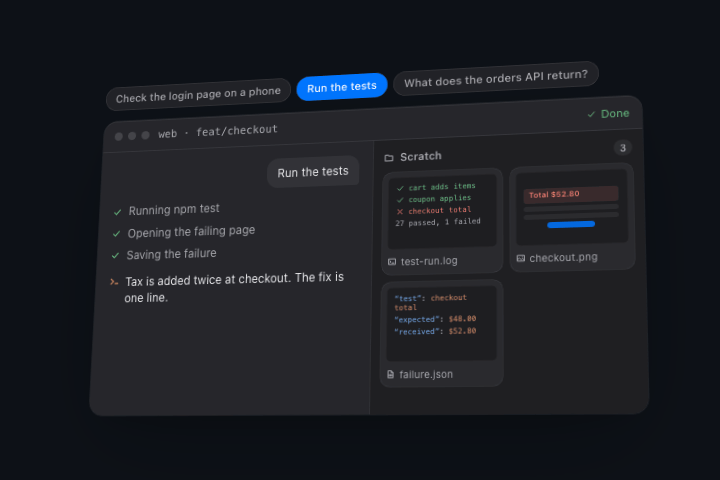
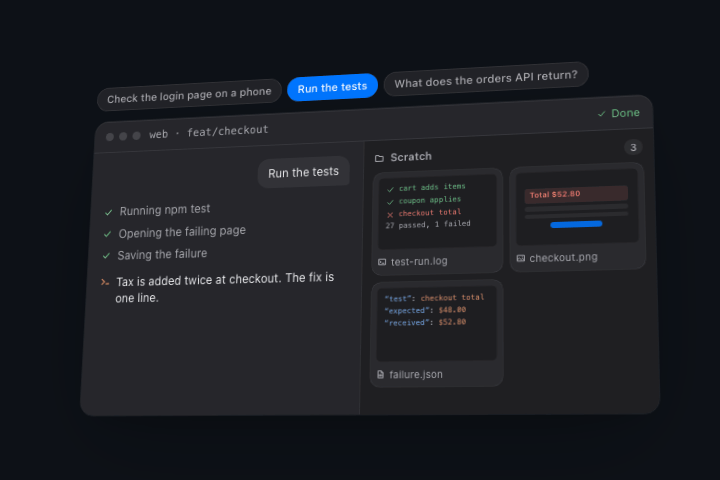
fix(onboarding): the welcome covers the window from its first frame, and Scratch's files stay in their tiles (BLG-989)
At launch the welcome no longer fades in over an app that has already drawn
(the app showed through for a moment); a replay from the menu still fades in.
Scratch is a little wider and its log lines wrap inside their tiles.

diff --git a/packages/mac/src/onboarding/Onboarding.tsx b/packages/mac/src/onboarding/Onboarding.tsx
@@ -42,12 +42,15 @@ function arrive(): void {
   setTimeout(() => delete app.dataset.arriving, 2000);
 }
 
-export function useOnboarding(): { open: boolean; start: Step; close: (how: 'finished' | 'skipped') => void; arrive: () => void } {
+export function useOnboarding(): { open: boolean; start: Step; fade: boolean; close: (how: 'finished' | 'skipped') => void; arrive: () => void } {
   const api = useApi();
   const telemetry = useApp((st) => st.telemetry);
   const [open, setOpen] = useState(() => shouldShow(localStorage, window.location.search));
   // Where it opens: the step it was left on (macOS's "Quit & Reopen" after a permission), or the welcome.
   const [start, setStart] = useState<Step>(() => resumeAt(localStorage) ?? 'hello');
+  // Shown at launch it covers the window from its first frame (fading in, the app showed through
+  // for a moment); asked for again from the menu, it fades in over the app.
+  const [fade, setFade] = useState(false);
   useEffect(() => {
     // The first time only: quit halfway and it's back next launch. Seeing it again from Help
     // leaves the mark as it was, so a replay you leave never brings it back on its own (only a
@@ -57,6 +60,7 @@ export function useOnboarding(): { open: boolean; start: Step; close: (how: 'fin
   useEffect(() => {
     const show = (): void => {
       setStart('hello');
+      setFade(true);
       setOpen(true);
     };
     document.addEventListener(SHOW_WELCOME, show);
@@ -65,6 +69,7 @@ export function useOnboarding(): { open: boolean; start: Step; close: (how: 'fin
   return {
     open,
     start,
+    fade,
     arrive,
     close: (how) => {
       saveMark(localStorage, APP_VERSION, how);
@@ -108,7 +113,7 @@ function Progress({ step, steps, go }: { readonly step: Step; readonly steps: re
  * then the app. A full window of its own over the app (which is already there
  * underneath, so finishing simply lifts this away).
  */
-export function Onboarding({ start = 'hello', onClose, onArrive }: { readonly start?: Step; readonly onClose: (how: 'finished' | 'skipped') => void; readonly onArrive?: () => void }) {
+export function Onboarding({ start = 'hello', fade = false, onClose, onArrive }: { readonly start?: Step; readonly fade?: boolean; readonly onClose: (how: 'finished' | 'skipped') => void; readonly onArrive?: () => void }) {
   const { ui } = useBeluga();
   const api = useApi();
   const prefs = usePrefs();
@@ -226,7 +231,7 @@ export function Onboarding({ start = 'hello', onClose, onArrive }: { readonly st
         aria-modal="true"
         aria-label="Welcome to Beluga"
         data-welcome=""
-        initial={{ opacity: 0 }}
+        initial={fade && !still ? { opacity: 0 } : false}
         animate={finale ? { opacity: inside ? 0 : 1 } : leaving ? { opacity: 0, scale: 1.04, filter: 'blur(14px)' } : { opacity: 1, scale: 1, filter: 'blur(0px)' }}
         transition={finale ? { duration: 0.12 } : { duration: leaving ? 0.6 : 0.8, ease: EASE_OUT }}
       >

diff --git a/packages/mac/src/onboarding/scenes/Scratch.tsx b/packages/mac/src/onboarding/scenes/Scratch.tsx
@@ -36,7 +36,7 @@ export const SCRATCH_RUNS: readonly Run[] = [
     doing: ['Opening the login page at 375 px', 'Reading the console', 'Measuring the layout'],
     files: [
       { name: 'login-375px.png', kind: 'shot', page: 'phone' },
-      { name: 'console.log', kind: 'log', lines: [{ text: 'GET /login 200' }, { text: 'Sign In is below the screen', tone: 'warn' }, { text: 'GET /api/session 401' }] },
+      { name: 'console.log', kind: 'log', lines: [{ text: 'GET /login 200' }, { text: 'Sign In off screen', tone: 'warn' }, { text: 'GET /api/session 401' }] },
       { name: 'layout.json', kind: 'json', rows: [['viewport', '375 × 812'], ['button.top', '860'], ['visible', 'false']] },
     ],
     answer: 'At 375 px the Sign In button is below the screen. Fixing it now.',

diff --git a/packages/mac/src/onboarding/scenes/tour-scenes.module.css b/packages/mac/src/onboarding/scenes/tour-scenes.module.css
@@ -157,14 +157,14 @@
 /* ── Scratch ──────────────────────────────────────────────── */
 
 .scratch {
-  width: 560px;
+  width: 580px;
   display: flex;
   flex-direction: column;
   gap: 12px;
 }
 .split {
   display: grid;
-  grid-template-columns: minmax(0, 1fr) 268px;
+  grid-template-columns: minmax(0, 1fr) 288px;
   min-height: 276px;
 }
 .talk {
@@ -367,9 +367,14 @@
 }
 .log span {
   display: flex;
-  align-items: center;
+  align-items: flex-start;
   gap: 4px;
-  white-space: nowrap;
+  /* Wraps rather than running out of its tile. */
+  overflow-wrap: anywhere;
+}
+.log span svg {
+  flex: none;
+  margin-top: 0.15em;
 }
 .log [data-tone='ok'] {
   color: var(--ok);

diff --git a/packages/mac/e2e/onboarding.spec.ts b/packages/mac/e2e/onboarding.spec.ts
@@ -8,6 +8,8 @@ test('a fresh install walks through the welcome, picks a look, and never sees it
   await page.goto('/');
   const welcome = page.getByRole('dialog', { name: 'Welcome to Beluga' });
   await expect(welcome).toBeVisible();
+  // At launch it covers the window from its first frame: no fade-in for the app to show through.
+  expect(await welcome.evaluate((el) => getComputedStyle(el).opacity)).toBe('1');
   // The beluga opens the welcome, and comes back on the last step.
   await expect(welcome.getByRole('img', { name: 'Beluga' })).toBeVisible();
   await welcome.getByRole('button', { name: /Set Up Beluga/ }).click();

diff --git a/packages/mac/src/App.tsx b/packages/mac/src/App.tsx
@@ -265,7 +265,7 @@ export function App() {
       <CallLayer />
       <MessageBanner />
       <UndoToast />
-      {welcome.open ? <Onboarding start={welcome.start} onClose={welcome.close} onArrive={welcome.arrive} /> : null}
+      {welcome.open ? <Onboarding start={welcome.start} fade={welcome.fade} onClose={welcome.close} onArrive={welcome.arrive} /> : null}
     </Tooltip.Provider>
   );
 }
